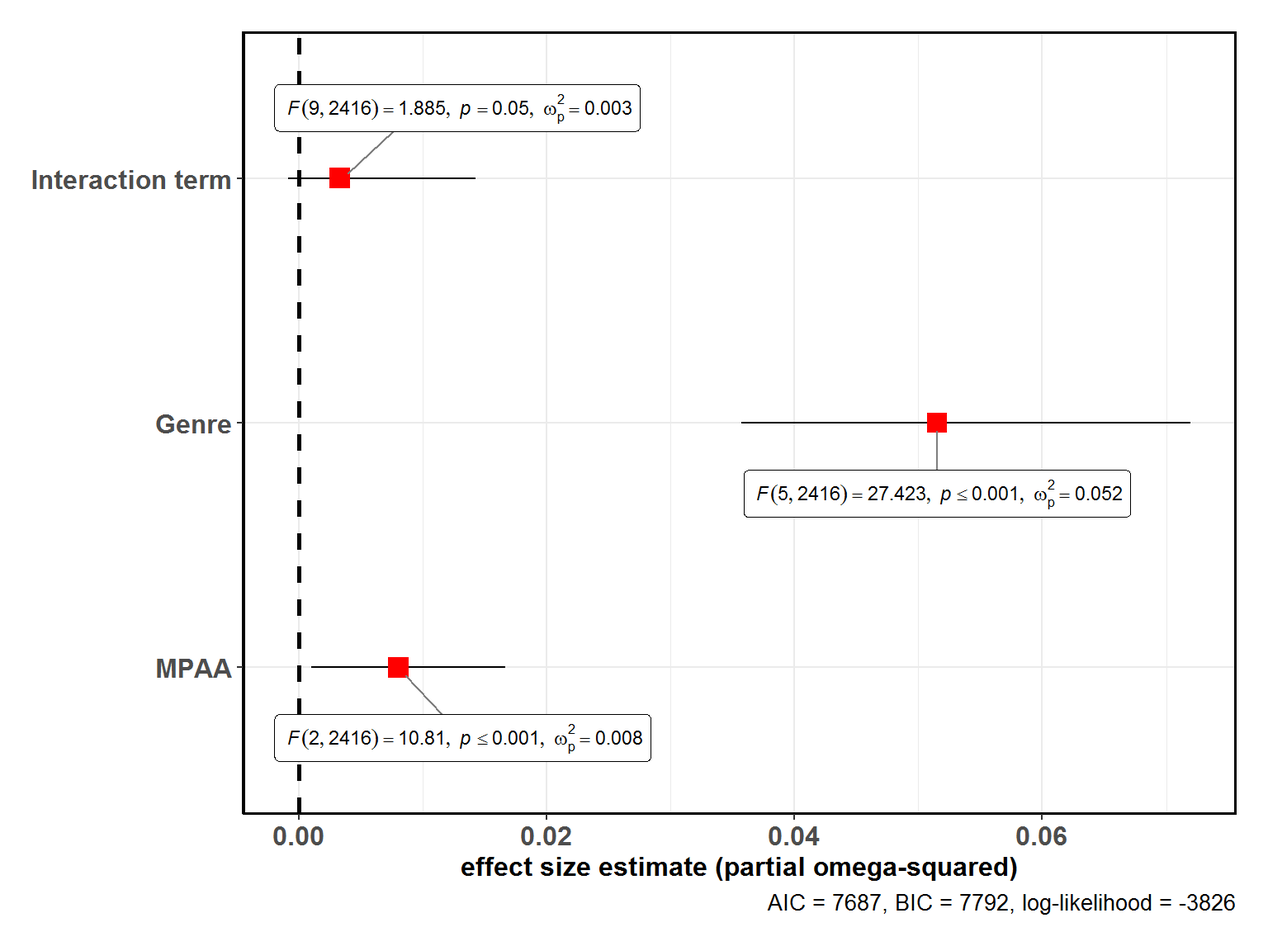
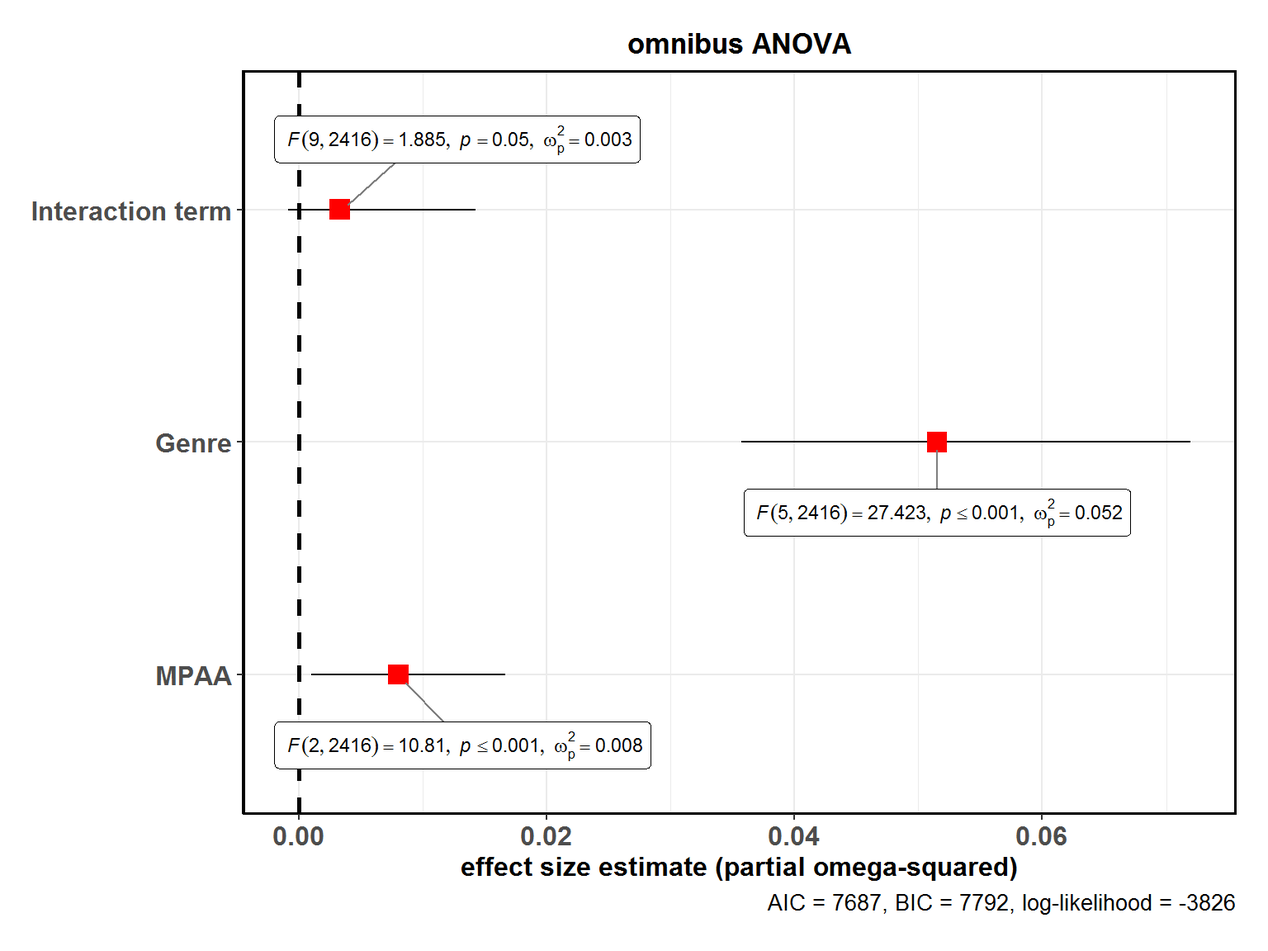
removing typos from ggcoefstats vignette

diff --git a/docs/articles/ggcoefstats.html b/docs/articles/ggcoefstats.html
@@ -29,7 +29,7 @@
       </button>
       <span class="navbar-brand">
         <a class="navbar-link" href="../index.html">ggstatsplot</a>
-        <span class="label label-default" data-toggle="tooltip" data-placement="bottom" title="Released package">0.0.3.9000</span>
+        <span class="label label-default" data-toggle="tooltip" data-placement="bottom" title="Released package">0.0.4</span>
       </span>
     </div>
 
@@ -113,16 +113,16 @@
 <a href="#general-structure-of-the-plots" class="anchor"></a>General structure of the plots</h2>
 <p>Although the statistical models displayed in the plot may differ based on the class of models being investigated, there are few aspects of the plot that will be invariant across models:</p>
 <ul>
-<li>The dot-whisker plot contains a dot representing the <strong>estimate</strong> and their <strong>confidence intervals</strong> (<code>95%</code> is the default). The estimate can either be effect sizes (for tests that depend on the <code>F</code>-statistic) or regression coefficients (for tests with <code>t</code> and <code>z</code> statistic), etc. The function will, by default, display a helpful x-axis label that should clear up what estimates are being displayed. The confidence intervals can sometimes be asymmetric if bootstrapping was used.</li>
-<li>The caption will always contain diagnostic information about models that can be useful for model selection: The smaller the Akaike’s Information Criterion (<strong>AIC</strong>) and the Bayesian Information Criterion (<strong>BIC</strong>) values, the “better” the model is. Additionally, the higher the <strong>log-likelihood</strong> value the “better” is the model fit.</li>
-<li>The output of this function will be a <code>ggplot2</code> object and, thus, it can be further modified (e.g., change themes, etc.) further with <code>ggplot2</code> functions.</li>
+<li>The dot-whisker plot contains a dot representing the <strong>estimate</strong> and their <strong>confidence intervals</strong> (<code>95%</code> is the default). The estimate can either be effect sizes (for tests that depend on the <code>F</code> statistic) or regression coefficients (for tests with <code>t</code> and <code>z</code> statistic), etc. The function will, by default, display a helpful x-axis label that should clear up what estimates are being displayed. The confidence intervals can sometimes be asymmetric if bootstrapping was used.</li>
+<li>The caption will always contain diagnostic information, if available, about models that can be useful for model selection: The smaller the Akaike’s Information Criterion (<strong>AIC</strong>) and the Bayesian Information Criterion (<strong>BIC</strong>) values, the “better” the model is. Additionally, the higher the <strong>log-likelihood</strong> value the “better” is the model fit.</li>
+<li>The output of this function will be a <code>ggplot2</code> object and, thus, it can be further modified (e.g., change themes, etc.) with <code>ggplot2</code> functions.</li>
 </ul>
 <p>In the following examples, we will try out a number of regression models and, additionally, we will also see how we can change different aspects of the plot itself.</p>
 </div>
 <div id="omnibus-anova-aov" class="section level2">
 <h2 class="hasAnchor">
 <a href="#omnibus-anova-aov" class="anchor"></a>omnibus ANOVA (<code>aov</code>)</h2>
-<p>Let’s use the <code>movies_long</code> dataset, which provides information about IMDB ratings, budget, length, MPAA ratings, and genre for a number of movies. Let’s say our hypothesis is that the IMDB ratings for a movie are predicted by a multiplicative effect of the genre and the MPAA rating it got. To begin with, let’s carry out an omnibus ANOVA to see if this is the case.</p>
+<p>For this analysis, let’s use the <code>movies_long</code> dataset, which provides information about IMDB ratings, budget, length, MPAA ratings (e.g., R-rated, NC-17, PG-13, etc.), and genre for a number of movies. Let’s say our hypothesis is that the IMDB ratings for a movie are predicted by a multiplicative effect of the genre and the MPAA rating it got. To begin with, let’s carry out an omnibus ANOVA to see if this is the case.</p>
 <div class="sourceCode" id="cb1"><pre class="sourceCode r"><code class="sourceCode r"><a class="sourceLine" id="cb1-1" data-line-number="1"><span class="co"># for reproducibility</span></a>
 <a class="sourceLine" id="cb1-2" data-line-number="2"><span class="kw">set.seed</span>(<span class="dv">123</span>)</a>
 <a class="sourceLine" id="cb1-3" data-line-number="3"></a>
@@ -148,13 +148,14 @@
 <a class="sourceLine" id="cb1-23" data-line-number="23">  <span class="dt">effsize =</span> <span class="st">"omega"</span>,                        <span class="co"># changing the effect size estimate being displayed</span></a>
 <a class="sourceLine" id="cb1-24" data-line-number="24">  <span class="dt">point.color =</span> <span class="st">"red"</span>,                      <span class="co"># changing the point color</span></a>
 <a class="sourceLine" id="cb1-25" data-line-number="25">  <span class="dt">point.size =</span> <span class="dv">4</span>,                           <span class="co"># changing the point size</span></a>
-<a class="sourceLine" id="cb1-26" data-line-number="26">  <span class="dt">point.shape =</span> <span class="dv">15</span>                          <span class="co"># changing the point shape</span></a>
-<a class="sourceLine" id="cb1-27" data-line-number="27">) <span class="op">+</span><span class="st">                                    </span></a>
-<a class="sourceLine" id="cb1-28" data-line-number="28"><span class="st">  </span><span class="co"># further modification with the ggplot2 commands</span></a>
-<a class="sourceLine" id="cb1-29" data-line-number="29"><span class="st">  </span><span class="co"># note the order in which the labels are entered</span></a>
-<a class="sourceLine" id="cb1-30" data-line-number="30"><span class="st">  </span>ggplot2<span class="op">::</span><span class="kw"><a href="http://www.rdocumentation.org/packages/ggplot2/topics/scale_discrete">scale_y_discrete</a></span>(<span class="dt">labels =</span> <span class="kw">c</span>(<span class="st">"MPAA"</span>, <span class="st">"Genre"</span>, <span class="st">"Interaction term"</span>)) <span class="op">+</span></a>
-<a class="sourceLine" id="cb1-31" data-line-number="31"><span class="st">  </span>ggplot2<span class="op">::</span><span class="kw"><a href="http://www.rdocumentation.org/packages/ggplot2/topics/labs">labs</a></span>(<span class="dt">x =</span> <span class="st">"effect size estimate (partial omega-squared)"</span>,</a>
-<a class="sourceLine" id="cb1-32" data-line-number="32">                <span class="dt">y =</span> <span class="ot">NULL</span>)</a></code></pre></div>
+<a class="sourceLine" id="cb1-26" data-line-number="26">  <span class="dt">point.shape =</span> <span class="dv">15</span>,                         <span class="co"># changing the point shape</span></a>
+<a class="sourceLine" id="cb1-27" data-line-number="27">  <span class="dt">title =</span> <span class="st">"omnibus ANOVA"</span></a>
+<a class="sourceLine" id="cb1-28" data-line-number="28">) <span class="op">+</span><span class="st">                                    </span></a>
+<a class="sourceLine" id="cb1-29" data-line-number="29"><span class="st">  </span><span class="co"># further modification with the ggplot2 commands</span></a>
+<a class="sourceLine" id="cb1-30" data-line-number="30"><span class="st">  </span><span class="co"># note the order in which the labels are entered</span></a>
+<a class="sourceLine" id="cb1-31" data-line-number="31"><span class="st">  </span>ggplot2<span class="op">::</span><span class="kw"><a href="http://www.rdocumentation.org/packages/ggplot2/topics/scale_discrete">scale_y_discrete</a></span>(<span class="dt">labels =</span> <span class="kw">c</span>(<span class="st">"MPAA"</span>, <span class="st">"Genre"</span>, <span class="st">"Interaction term"</span>)) <span class="op">+</span></a>
+<a class="sourceLine" id="cb1-32" data-line-number="32"><span class="st">  </span>ggplot2<span class="op">::</span><span class="kw"><a href="http://www.rdocumentation.org/packages/ggplot2/topics/labs">labs</a></span>(<span class="dt">x =</span> <span class="st">"effect size estimate (partial omega-squared)"</span>,</a>
+<a class="sourceLine" id="cb1-33" data-line-number="33">                <span class="dt">y =</span> <span class="ot">NULL</span>)</a></code></pre></div>
 <p><img src="ggcoefstats_files/figure-html/aov-1.png" width="768"></p>
 <p>As this plot shows, there is no interaction effect between these two factors.</p>
 <p>Note that we can also use this function for model selection. Let’s try out different models and see how the AIC, BIC, and log-likelihood values change.</p>
@@ -190,12 +191,12 @@
 <a class="sourceLine" id="cb2-30" data-line-number="30">  <span class="dt">labels =</span> <span class="kw">c</span>(<span class="st">"(a)"</span>, <span class="st">"(b)"</span>, <span class="st">"(c)"</span>, <span class="st">"(d)"</span>)</a>
 <a class="sourceLine" id="cb2-31" data-line-number="31">)</a></code></pre></div>
 <p><img src="ggcoefstats_files/figure-html/aov2-1.png" width="960"></p>
-<p>Looking at the model diagnostics, we can see that the model with only <code>genre</code> as the predictor of ratings seems to perform almost equally well as more complicated additive and multiplicative models. Although there is certainly some improvement with additive and multiplicative, it is by no means convincing enough (e.g., AIC improves by a mere <code>0.09%</code>) for us to abandon a simpler model. This insight can also be garnered by just looking at the effect sizes, which also tell us that which genre the movie belongs to seems to account for the largest variance.</p>
+<p>Looking at the model diagnostics, we can see that the model with only <code>genre</code> as the predictor of ratings seems to perform almost equally well as more complicated additive and multiplicative models. Although there is certainly some improvement with additive and multiplicative models, it is by no means convincing enough (e.g., AIC improves by a mere <code>0.09%</code>) for us to abandon a simpler model. This insight can also be garnered by just looking at the effect sizes, which also tell us that which genre the movie belongs to seems to account for the largest variance.</p>
 </div>
 <div id="linear-model-lm" class="section level2">
 <h2 class="hasAnchor">
 <a href="#linear-model-lm" class="anchor"></a>linear model (<code>lm</code>)</h2>
-<p>Now that we have figured out that the movie <code>genre</code> best explains variation in how good people find the movie to be. Let’s run a linear regression model to see how different types of genres compare with each other-</p>
+<p>Now that we have figured out that the movie <code>genre</code> best explains a fair deal of variation in how good people rate the movie to be on IMDB. Let’s run a linear regression model to see how different types of genres compare with each other-</p>
 <div class="sourceCode" id="cb3"><pre class="sourceCode r"><code class="sourceCode r"><a class="sourceLine" id="cb3-1" data-line-number="1"><span class="co"># let's check all the levels for the genre variable</span></a>
 <a class="sourceLine" id="cb3-2" data-line-number="2"><span class="kw">levels</span>(ggstatsplot<span class="op">::</span>movies_long<span class="op">$</span>genre)</a>
 <a class="sourceLine" id="cb3-3" data-line-number="3"><span class="co">#&gt; [1] "Action"      "Animation"   "Comedy"      "Documentary" "Drama"      </span></a>
@@ -226,7 +227,7 @@
 <div id="linear-mixed-effects-model-lmer" class="section level2">
 <h2 class="hasAnchor">
 <a href="#linear-mixed-effects-model-lmer" class="anchor"></a>linear mixed-effects model (<code>lmer</code>)</h2>
-<p>Now let’s say we want to see how movie budget relates to how good the movie is rated to be on IMDB (e.g., more money, better ratings?). But we have reasons to believe that the relationship between these two variables is different for different genres (e.g., budget might be a good predictor of how good the movie is rated to be for animations or actions movies as more money can help with better visual effects and animations, but this may not be true for dramas; also see the <a href="https://indrajeetpatil.github.io/ggstatsplot/articles/ggscatterstats.html"><code>ggscatterstats</code></a> vignette), so we don’t want to use <code><a href="http://www.rdocumentation.org/packages/stats/topics/lm">stats::lm</a></code>. In this case, therefore, we will be running a linear mixed-effects model (using <code><a href="http://www.rdocumentation.org/packages/lme4/topics/lmer">lme4::lmer</a></code> and p-values generated using the <code>lmerTest</code> package) with a random slope for the genre variable.</p>
+<p>Now let’s say we want to see how movie’s budget relates to how good the movie is rated to be on IMDB (e.g., more money, better ratings?). But we have reasons to believe that the relationship between these two variables might be different for different genres (e.g., budget might be a good predictor of how good the movie is rated to be for animations or actions movies as more money can help with better visual effects and animations, but this may not be true for dramas; also see the <a href="https://indrajeetpatil.github.io/ggstatsplot/articles/ggscatterstats.html"><code>ggscatterstats</code></a> vignette), so we don’t want to use <code><a href="http://www.rdocumentation.org/packages/stats/topics/lm">stats::lm</a></code>. In this case, therefore, we will be running a linear mixed-effects model (using <code><a href="http://www.rdocumentation.org/packages/lme4/topics/lmer">lme4::lmer</a></code> and p-values generated using the <code>lmerTest</code> package) with a random slope for the genre variable.</p>
 <div class="sourceCode" id="cb4"><pre class="sourceCode r"><code class="sourceCode r"><a class="sourceLine" id="cb4-1" data-line-number="1"><span class="kw">library</span>(lme4)</a>
 <a class="sourceLine" id="cb4-2" data-line-number="2"><span class="kw">library</span>(ggstatsplot)</a>
 <a class="sourceLine" id="cb4-3" data-line-number="3"></a>
@@ -260,12 +261,12 @@
 <a class="sourceLine" id="cb4-31" data-line-number="31">  <span class="dt">title.text =</span> <span class="st">"Relationship between movie budget and its IMDB rating"</span></a>
 <a class="sourceLine" id="cb4-32" data-line-number="32">)</a></code></pre></div>
 <p><img src="ggcoefstats_files/figure-html/lmer-1.png" width="672"></p>
-<p>As can be seen from these plots, although there seems to be a really small correlation between budget and rating, this effect is not found once we take into account the random effects structure.</p>
+<p>As can be seen from these plots, although there seems to be a really small correlation between budget and rating in a linear model, this effect is not significant once we take into account the hierarchical structure of the data.</p>
 </div>
 <div id="non-linear-least-squares-model-nls" class="section level2">
 <h2 class="hasAnchor">
 <a href="#non-linear-least-squares-model-nls" class="anchor"></a>Non-linear least-squares model (<code>nls</code>)</h2>
-<p>So far we have been assuming a linear relationship between movie budget and rating. But what is we want to also explore the possibility of a non-linear relationship? In that case, we can run a non-linear least squares regression. Note that you need to choose the same non-linear function (<code>y ~ k/x + c</code>) implemented here (try out other non-linear functions, e.g. <code>Y ~ k * exp(-b*c)</code>).</p>
+<p>So far we have been assuming a linear relationship between movie budget and rating. But what if we want to also explore the possibility of a non-linear relationship? In that case, we can run a non-linear least squares regression. Note that you need to choose some non-linear function, which will be based on prior exploratory data analysis (<code>y ~ k/x + c</code> implemented here, but you can try out other non-linear functions, e.g. <code>Y ~ k * exp(-b*c)</code>).</p>
 <div class="sourceCode" id="cb5"><pre class="sourceCode r"><code class="sourceCode r"><a class="sourceLine" id="cb5-1" data-line-number="1"><span class="kw">library</span>(ggstatsplot)</a>
 <a class="sourceLine" id="cb5-2" data-line-number="2"></a>
 <a class="sourceLine" id="cb5-3" data-line-number="3"><span class="co"># plot</span></a>
@@ -279,75 +280,49 @@
 <a class="sourceLine" id="cb5-11" data-line-number="11">    <span class="dt">subtitle =</span> <span class="st">"Source: IMDB"</span></a>
 <a class="sourceLine" id="cb5-12" data-line-number="12">  )</a></code></pre></div>
 <p><img src="ggcoefstats_files/figure-html/nls-1.png" width="576"></p>
-<p>This analysis shows that there is indeed a possible non-linear association between rating and budget, at least with the particular non-linear function we used.</p>
+<p>This analysis shows that there is indeed a possible non-linear association between rating and budget (non-linear regression term <code>k</code> is significant), at least with the particular non-linear function we used.</p>
 </div>
 <div id="generalized-linear-model-glm" class="section level2">
 <h2 class="hasAnchor">
 <a href="#generalized-linear-model-glm" class="anchor"></a>generalized linear model (<code>glm</code>)</h2>
-<p>In all the analyses carried out thus far, the outcome variable (<code>y</code> in <code>y ~ x</code>) has been continuous. In case the outcome variable is categorical/factor, we can use the <strong>generalized</strong> form of linear model that works even if the response is a numeric vector or a factor vector, etc.</p>
+<p>In all the analyses carried out thus far, the outcome variable (<code>y</code> in <code>y ~ x</code>) has been continuous. In case the outcome variable is nominal/categorical/factor, we can use the <strong>generalized</strong> form of linear model that works even if the response is a numeric vector or a factor vector, etc.</p>
 <p>To explore this model, we will use the Titanic dataset, which tabulates information on the fate of passengers on the fatal maiden voyage of the ocean liner <em>Titanic</em>, summarized according to economic status (class), sex, age, and survival. Let’s say we want to know what was the strongest predictor of whether someone survived the Titanic disaster-</p>
 <div class="sourceCode" id="cb6"><pre class="sourceCode r"><code class="sourceCode r"><a class="sourceLine" id="cb6-1" data-line-number="1"><span class="kw">library</span>(ggstatsplot)</a>
 <a class="sourceLine" id="cb6-2" data-line-number="2"></a>
 <a class="sourceLine" id="cb6-3" data-line-number="3"><span class="co"># having a look at the Titanic dataset</span></a>
-<a class="sourceLine" id="cb6-4" data-line-number="4">(df &lt;-<span class="st"> </span><span class="kw">as.data.frame</span>(<span class="dt">x =</span> Titanic))</a>
-<a class="sourceLine" id="cb6-5" data-line-number="5"><span class="co">#&gt;    Class    Sex   Age Survived Freq</span></a>
-<a class="sourceLine" id="cb6-6" data-line-number="6"><span class="co">#&gt; 1    1st   Male Child       No    0</span></a>
-<a class="sourceLine" id="cb6-7" data-line-number="7"><span class="co">#&gt; 2    2nd   Male Child       No    0</span></a>
-<a class="sourceLine" id="cb6-8" data-line-number="8"><span class="co">#&gt; 3    3rd   Male Child       No   35</span></a>
-<a class="sourceLine" id="cb6-9" data-line-number="9"><span class="co">#&gt; 4   Crew   Male Child       No    0</span></a>
-<a class="sourceLine" id="cb6-10" data-line-number="10"><span class="co">#&gt; 5    1st Female Child       No    0</span></a>
-<a class="sourceLine" id="cb6-11" data-line-number="11"><span class="co">#&gt; 6    2nd Female Child       No    0</span></a>
-<a class="sourceLine" id="cb6-12" data-line-number="12"><span class="co">#&gt; 7    3rd Female Child       No   17</span></a>
-<a class="sourceLine" id="cb6-13" data-line-number="13"><span class="co">#&gt; 8   Crew Female Child       No    0</span></a>
-<a class="sourceLine" id="cb6-14" data-line-number="14"><span class="co">#&gt; 9    1st   Male Adult       No  118</span></a>
-<a class="sourceLine" id="cb6-15" data-line-number="15"><span class="co">#&gt; 10   2nd   Male Adult       No  154</span></a>
-<a class="sourceLine" id="cb6-16" data-line-number="16"><span class="co">#&gt; 11   3rd   Male Adult       No  387</span></a>
-<a class="sourceLine" id="cb6-17" data-line-number="17"><span class="co">#&gt; 12  Crew   Male Adult       No  670</span></a>
-<a class="sourceLine" id="cb6-18" data-line-number="18"><span class="co">#&gt; 13   1st Female Adult       No    4</span></a>
-<a class="sourceLine" id="cb6-19" data-line-number="19"><span class="co">#&gt; 14   2nd Female Adult       No   13</span></a>
-<a class="sourceLine" id="cb6-20" data-line-number="20"><span class="co">#&gt; 15   3rd Female Adult       No   89</span></a>
-<a class="sourceLine" id="cb6-21" data-line-number="21"><span class="co">#&gt; 16  Crew Female Adult       No    3</span></a>
-<a class="sourceLine" id="cb6-22" data-line-number="22"><span class="co">#&gt; 17   1st   Male Child      Yes    5</span></a>
-<a class="sourceLine" id="cb6-23" data-line-number="23"><span class="co">#&gt; 18   2nd   Male Child      Yes   11</span></a>
-<a class="sourceLine" id="cb6-24" data-line-number="24"><span class="co">#&gt; 19   3rd   Male Child      Yes   13</span></a>
-<a class="sourceLine" id="cb6-25" data-line-number="25"><span class="co">#&gt; 20  Crew   Male Child      Yes    0</span></a>
-<a class="sourceLine" id="cb6-26" data-line-number="26"><span class="co">#&gt; 21   1st Female Child      Yes    1</span></a>
-<a class="sourceLine" id="cb6-27" data-line-number="27"><span class="co">#&gt; 22   2nd Female Child      Yes   13</span></a>
-<a class="sourceLine" id="cb6-28" data-line-number="28"><span class="co">#&gt; 23   3rd Female Child      Yes   14</span></a>
-<a class="sourceLine" id="cb6-29" data-line-number="29"><span class="co">#&gt; 24  Crew Female Child      Yes    0</span></a>
-<a class="sourceLine" id="cb6-30" data-line-number="30"><span class="co">#&gt; 25   1st   Male Adult      Yes   57</span></a>
-<a class="sourceLine" id="cb6-31" data-line-number="31"><span class="co">#&gt; 26   2nd   Male Adult      Yes   14</span></a>
-<a class="sourceLine" id="cb6-32" data-line-number="32"><span class="co">#&gt; 27   3rd   Male Adult      Yes   75</span></a>
-<a class="sourceLine" id="cb6-33" data-line-number="33"><span class="co">#&gt; 28  Crew   Male Adult      Yes  192</span></a>
-<a class="sourceLine" id="cb6-34" data-line-number="34"><span class="co">#&gt; 29   1st Female Adult      Yes  140</span></a>
-<a class="sourceLine" id="cb6-35" data-line-number="35"><span class="co">#&gt; 30   2nd Female Adult      Yes   80</span></a>
-<a class="sourceLine" id="cb6-36" data-line-number="36"><span class="co">#&gt; 31   3rd Female Adult      Yes   76</span></a>
-<a class="sourceLine" id="cb6-37" data-line-number="37"><span class="co">#&gt; 32  Crew Female Adult      Yes   20</span></a>
-<a class="sourceLine" id="cb6-38" data-line-number="38"></a>
-<a class="sourceLine" id="cb6-39" data-line-number="39"><span class="co"># plot</span></a>
-<a class="sourceLine" id="cb6-40" data-line-number="40">ggstatsplot<span class="op">::</span><span class="kw"><a href="http://www.rdocumentation.org/packages/ggstatsplot/topics/ggcoefstats">ggcoefstats</a></span>(</a>
-<a class="sourceLine" id="cb6-41" data-line-number="41">  <span class="dt">x =</span> stats<span class="op">::</span><span class="kw"><a href="http://www.rdocumentation.org/packages/stats/topics/glm">glm</a></span>(</a>
-<a class="sourceLine" id="cb6-42" data-line-number="42">    <span class="dt">formula =</span> Survived <span class="op">~</span><span class="st"> </span>Sex <span class="op">+</span><span class="st"> </span>Age,</a>
-<a class="sourceLine" id="cb6-43" data-line-number="43">    <span class="dt">data =</span> df,</a>
-<a class="sourceLine" id="cb6-44" data-line-number="44">    <span class="dt">weights =</span> df<span class="op">$</span>Freq,                          <span class="co"># vector containing weights (no. of observations per row)</span></a>
-<a class="sourceLine" id="cb6-45" data-line-number="45">    <span class="dt">family =</span> <span class="st">"binomial"</span></a>
-<a class="sourceLine" id="cb6-46" data-line-number="46">  ),</a>
-<a class="sourceLine" id="cb6-47" data-line-number="47">  <span class="dt">exponentiate =</span> <span class="ot">TRUE</span>,</a>
-<a class="sourceLine" id="cb6-48" data-line-number="48">  <span class="dt">ggtheme =</span> ggplot2<span class="op">::</span><span class="kw"><a href="http://www.rdocumentation.org/packages/ggplot2/topics/ggtheme">theme_dark</a></span>(),</a>
-<a class="sourceLine" id="cb6-49" data-line-number="49">  <span class="dt">vline.color =</span> <span class="st">"red"</span>,</a>
-<a class="sourceLine" id="cb6-50" data-line-number="50">  <span class="dt">vline.linetype =</span> <span class="st">"solid"</span>,</a>
-<a class="sourceLine" id="cb6-51" data-line-number="51">  <span class="dt">label.segment.color =</span> <span class="st">"red"</span>,</a>
-<a class="sourceLine" id="cb6-52" data-line-number="52">  <span class="dt">stats.label.size =</span> <span class="fl">3.5</span>,</a>
-<a class="sourceLine" id="cb6-53" data-line-number="53">  <span class="dt">stats.label.color =</span> <span class="kw">c</span>(<span class="st">"orangered"</span>,</a>
-<a class="sourceLine" id="cb6-54" data-line-number="54">                        <span class="st">"dodgerblue"</span>)</a>
-<a class="sourceLine" id="cb6-55" data-line-number="55">) </a></code></pre></div>
+<a class="sourceLine" id="cb6-4" data-line-number="4">df &lt;-<span class="st"> </span><span class="kw">as.data.frame</span>(<span class="dt">x =</span> Titanic)</a>
+<a class="sourceLine" id="cb6-5" data-line-number="5"><span class="kw">str</span>(df)</a>
+<a class="sourceLine" id="cb6-6" data-line-number="6"><span class="co">#&gt; 'data.frame':    32 obs. of  5 variables:</span></a>
+<a class="sourceLine" id="cb6-7" data-line-number="7"><span class="co">#&gt;  $ Class   : Factor w/ 4 levels "1st","2nd","3rd",..: 1 2 3 4 1 2 3 4 1 2 ...</span></a>
+<a class="sourceLine" id="cb6-8" data-line-number="8"><span class="co">#&gt;  $ Sex     : Factor w/ 2 levels "Male","Female": 1 1 1 1 2 2 2 2 1 1 ...</span></a>
+<a class="sourceLine" id="cb6-9" data-line-number="9"><span class="co">#&gt;  $ Age     : Factor w/ 2 levels "Child","Adult": 1 1 1 1 1 1 1 1 2 2 ...</span></a>
+<a class="sourceLine" id="cb6-10" data-line-number="10"><span class="co">#&gt;  $ Survived: Factor w/ 2 levels "No","Yes": 1 1 1 1 1 1 1 1 1 1 ...</span></a>
+<a class="sourceLine" id="cb6-11" data-line-number="11"><span class="co">#&gt;  $ Freq    : num  0 0 35 0 0 0 17 0 118 154 ...</span></a>
+<a class="sourceLine" id="cb6-12" data-line-number="12"></a>
+<a class="sourceLine" id="cb6-13" data-line-number="13"><span class="co"># plot</span></a>
+<a class="sourceLine" id="cb6-14" data-line-number="14">ggstatsplot<span class="op">::</span><span class="kw"><a href="http://www.rdocumentation.org/packages/ggstatsplot/topics/ggcoefstats">ggcoefstats</a></span>(</a>
+<a class="sourceLine" id="cb6-15" data-line-number="15">  <span class="dt">x =</span> stats<span class="op">::</span><span class="kw"><a href="http://www.rdocumentation.org/packages/stats/topics/glm">glm</a></span>(</a>
+<a class="sourceLine" id="cb6-16" data-line-number="16">    <span class="dt">formula =</span> Survived <span class="op">~</span><span class="st"> </span>Sex <span class="op">+</span><span class="st"> </span>Age,</a>
+<a class="sourceLine" id="cb6-17" data-line-number="17">    <span class="dt">data =</span> df,</a>
+<a class="sourceLine" id="cb6-18" data-line-number="18">    <span class="dt">weights =</span> df<span class="op">$</span>Freq,                          <span class="co"># vector containing weights (no. of observations per row)</span></a>
+<a class="sourceLine" id="cb6-19" data-line-number="19">    <span class="dt">family =</span> <span class="st">"binomial"</span></a>
+<a class="sourceLine" id="cb6-20" data-line-number="20">  ),</a>
+<a class="sourceLine" id="cb6-21" data-line-number="21">  <span class="dt">exponentiate =</span> <span class="ot">TRUE</span>,</a>
+<a class="sourceLine" id="cb6-22" data-line-number="22">  <span class="dt">ggtheme =</span> ggplot2<span class="op">::</span><span class="kw"><a href="http://www.rdocumentation.org/packages/ggplot2/topics/ggtheme">theme_dark</a></span>(),</a>
+<a class="sourceLine" id="cb6-23" data-line-number="23">  <span class="dt">vline.color =</span> <span class="st">"red"</span>,</a>
+<a class="sourceLine" id="cb6-24" data-line-number="24">  <span class="dt">vline.linetype =</span> <span class="st">"solid"</span>,</a>
+<a class="sourceLine" id="cb6-25" data-line-number="25">  <span class="dt">label.segment.color =</span> <span class="st">"red"</span>,</a>
+<a class="sourceLine" id="cb6-26" data-line-number="26">  <span class="dt">stats.label.size =</span> <span class="fl">3.5</span>,</a>
+<a class="sourceLine" id="cb6-27" data-line-number="27">  <span class="dt">stats.label.color =</span> <span class="kw">c</span>(<span class="st">"orangered"</span>,</a>
+<a class="sourceLine" id="cb6-28" data-line-number="28">                        <span class="st">"dodgerblue"</span>)</a>
+<a class="sourceLine" id="cb6-29" data-line-number="29">) </a></code></pre></div>
 <p><img src="ggcoefstats_files/figure-html/glm-1.png" width="576"></p>
 <p>As can be seen from the regression coefficients, all entered predictors were significant predictors of the outcome. More specifically, being a female was associated with higher likelihood of survival (compared to male). On other hand, being an adult was associated with decreased likelihood of survival (compared to child).</p>
 </div>
 <div id="generalized-linear-mixed-effects-model-glmer" class="section level2">
 <h2 class="hasAnchor">
 <a href="#generalized-linear-mixed-effects-model-glmer" class="anchor"></a>generalized linear mixed-effects model (<code>glmer</code>)</h2>
-<p>In the previous example, we saw how being a female and being a child was predictive of surviving the Titanic disaster. But in that analysis, we didn’t take into another important factor: the passenger class in which people were traveling. Naively, we have reasons to believe that the effects of sex and age might be dependent on the class. To take into account this hierarchical structure of the data, we can run generalized linear mixed effects model with a random slope for class.</p>
+<p>In the previous example, we saw how being a female and being a child was predictive of surviving the Titanic disaster. But in that analysis, we didn’t take into account one important factor: the passenger class in which people were traveling. Naively, we have reasons to believe that the effects of sex and age might be dependent on the class (maybe rescuing passengers in the first class were given priority?). To take into account this hierarchical structure of the data, we can run generalized linear mixed effects model with a random slope for class.</p>
 <div class="sourceCode" id="cb7"><pre class="sourceCode r"><code class="sourceCode r"><a class="sourceLine" id="cb7-1" data-line-number="1"><span class="co"># plot</span></a>
 <a class="sourceLine" id="cb7-2" data-line-number="2">ggstatsplot<span class="op">::</span><span class="kw"><a href="http://www.rdocumentation.org/packages/ggstatsplot/topics/ggcoefstats">ggcoefstats</a></span>(</a>
 <a class="sourceLine" id="cb7-3" data-line-number="3">  <span class="dt">x =</span> lme4<span class="op">::</span><span class="kw"><a href="http://www.rdocumentation.org/packages/lme4/topics/glmer">glmer</a></span>(</a>
@@ -359,12 +334,13 @@
 <a class="sourceLine" id="cb7-9" data-line-number="9">  <span class="dt">exponentiate =</span> <span class="ot">TRUE</span></a>
 <a class="sourceLine" id="cb7-10" data-line-number="10">)</a></code></pre></div>
 <p><img src="ggcoefstats_files/figure-html/glmer-1.png" width="576"></p>
-<p>As we had expected, once we take into account the differential relationship that might exist between survival and predictor across different passenger classes, only the sex factor remain a significant predictor (also see the <a href="https://indrajeetpatil.github.io/ggstatsplot/articles/ggspiestats.html"><code>ggspiestats</code></a> vignette where we had explored this dataset).</p>
+<p>As we had expected, once we take into account the differential relationship that might exist between survival and predictors across different passenger classes, only the sex factor remain a significant predictor (also see the <a href="https://indrajeetpatil.github.io/ggstatsplot/articles/ggspiestats.html"><code>ggspiestats</code></a> vignette where we had explored this dataset). In other words, being a female was the strongest predictor of whether someone survived the tragedy that befell the Titanic.</p>
 </div>
 <div id="cumulative-link-models-clm" class="section level2">
 <h2 class="hasAnchor">
 <a href="#cumulative-link-models-clm" class="anchor"></a>Cumulative Link Models (<code>clm</code>)</h2>
-<p>So far we have dealt either with continuous or nominal/factor responses (or output variables), but sometimes we will encounter <strong>ordinal</strong> data (e.g., Likert scale measurement in behavioral sciences). In these cases, ordinal regression models are suitable. To study these models, we will use <code>intent_morality</code> dataset included in the <code>ggstatsplot</code> package. This dataset contains moral judgments (“how wrong was this behavior?”, “how much punishment does the agent deserve?”; on a Likert scale of 1-7) by participants about third-party actors who harm someone. There are four different conditions formed out of belief (neutral, negative) and outcome (neutral, negative) for four different vignettes, each featuring a different type of harm. The question we are interested in is what explains variation in participants’ rating: information about intentionality, consequences, or their interaction? We will carry out this analysis for each type of harm-</p>
+<p>So far we have dealt either with continuous or nominal/factor responses (or output variables), but sometimes we will encounter <strong>ordinal</strong> data (e.g., Likert scale measurement in behavioral sciences). In these cases, ordinal regression models are more suitable. To study these models, we will use <code>intent_morality</code> dataset included in the <code>ggstatsplot</code> package. This dataset contains moral judgments (“how wrong was this behavior?”, “how much punishment does the agent deserve?”; on a Likert scale of 1-7) by participants about third-party actors who harmed someone. There are four different conditions formed out of belief (neutral, negative) and outcome (neutral, negative) for four different vignettes, each featuring a different type of harm. The question we are interested in is what explains variation in participants’ rating: information about intentionality, consequences, or their interaction?</p>
+<p>We will carry out this analysis for each type of harm because we might expect that people might rely on intent information for some types of harm, but not others (e.g., take into account intent information for minor harms, like bumping into someone, but not for more serious harms, like burning someone’s hand)-</p>
 <div class="sourceCode" id="cb8"><pre class="sourceCode r"><code class="sourceCode r"><a class="sourceLine" id="cb8-1" data-line-number="1"><span class="kw">library</span>(ggstatsplot)</a>
 <a class="sourceLine" id="cb8-2" data-line-number="2"><span class="kw">library</span>(purrr)</a>
 <a class="sourceLine" id="cb8-3" data-line-number="3"><span class="kw">library</span>(glue)</a>
@@ -394,7 +370,7 @@
 <div id="cumulative-link-mixed-models-clmm" class="section level2">
 <h2 class="hasAnchor">
 <a href="#cumulative-link-mixed-models-clmm" class="anchor"></a>Cumulative Link Mixed Models (<code>clmm</code>)</h2>
-<p>In the previous analysis, we carried four separate ordinal regression models to see effect of intent and outcome information on moral judgments. But a better of accounting for such item level differences is to model them as random factors. So, in the current section, we used ordinal mixed-effects regression model to see how belief and outcome contribute towards variation in moral judgment ratings-</p>
+<p>In the previous analysis, we carried four separate ordinal regression models to see the generalizability (across items) of effects intent and outcome information on moral judgments. But a better of accounting for such item level differences is to model them as random factors. So, in the current section, we used ordinal mixed-effects regression model to see how belief and outcome contribute towards variation in moral judgment ratings-</p>
 <div class="sourceCode" id="cb9"><pre class="sourceCode r"><code class="sourceCode r"><a class="sourceLine" id="cb9-1" data-line-number="1"><span class="kw">library</span>(ggstatsplot)</a>
 <a class="sourceLine" id="cb9-2" data-line-number="2"></a>
 <a class="sourceLine" id="cb9-3" data-line-number="3">ggstatsplot<span class="op">::</span><span class="kw"><a href="http://www.rdocumentation.org/packages/ggstatsplot/topics/ggcoefstats">ggcoefstats</a></span>(</a>
@@ -427,7 +403,7 @@
 <div id="repeated-measures-anova-aovlist" class="section level2">
 <h2 class="hasAnchor">
 <a href="#repeated-measures-anova-aovlist" class="anchor"></a>Repeated measures ANOVA (<code>aovlist</code>)</h2>
-<p>Let’s now to run a different type of analysis: repeated measures design. To carry out this analysis, we will first have to convert the iris dataset from wide to long format such that there is one column corresponding to <code>attribute</code> (which part of the calyx of a flower is being measured: <code>sepal</code> or <code>petal</code>?) and one column corresponding to <code>measure</code> used (<code>length</code> or <code>width</code>?). Note that this is within-subjects design since the same flower has both measures for both attributes. The question we are interested in is the variance in measurements explained by both of these factors.</p>
+<p>Let’s now consider an example of a repeated measures design where we want to run omnibus ANOVA with a specific error structure. To carry out this analysis, we will first have to convert the iris dataset from wide to long format such that there is one column corresponding to <code>attribute</code> (which part of the calyx of a flower is being measured: <code>sepal</code> or <code>petal</code>?) and one column corresponding to <code>measure</code> used (<code>length</code> or <code>width</code>?). Note that this is within-subjects design since the same flower has both measures for both attributes. The question we are interested in is how much of the variance in measurements is explained by both of these factors and their interaction.</p>
 <div class="sourceCode" id="cb11"><pre class="sourceCode r"><code class="sourceCode r"><a class="sourceLine" id="cb11-1" data-line-number="1"><span class="kw">library</span>(ggstatsplot)</a>
 <a class="sourceLine" id="cb11-2" data-line-number="2"><span class="kw">library</span>(ggplot2)</a>
 <a class="sourceLine" id="cb11-3" data-line-number="3"></a>
@@ -492,12 +468,12 @@
 <h2 class="hasAnchor">
 <a href="#and-much-more" class="anchor"></a>And much more…</h2>
 <p>This vignette was supposed to give just a taste for only <em>some</em> of the regression models supported by <code>ggcoefstats</code>. The full list of supported models will keep expanding as additional tidiers are added to the <code>broom</code> package: <a href="https://broom.tidyverse.org/articles/available-methods.html" class="uri">https://broom.tidyverse.org/articles/available-methods.html</a></p>
-<p>Note that not <strong>all</strong> models supported by <code>broom</code> will be supported by <code>ggcoefstats</code>. In particular, those classes of objects are not supported for which there is:</p>
+<p>Note that not <strong>all</strong> models supported by <code>broom</code> will be supported by <code>ggcoefstats</code>. In particular, classes of objects for which there is:</p>
 <ul>
 <li>no confidence intervals for the estimate available (e.g., <code>lmRob</code>, <code>glmRob</code>, etc.)</li>
 <li>no estimates present (e.g., <code>kmeans</code>)</li>
 </ul>
-<p>Some of the models might be supported in future.</p>
+<p>will not be supported. That said, some of these models might be supported in future.</p>
 </div>
 <div id="suggestions" class="section level2">
 <h2 class="hasAnchor">
